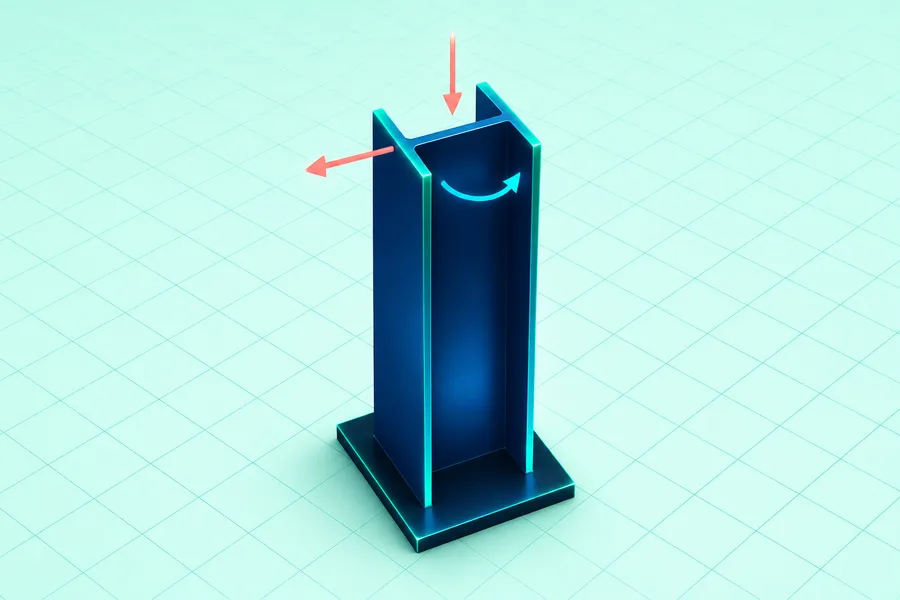
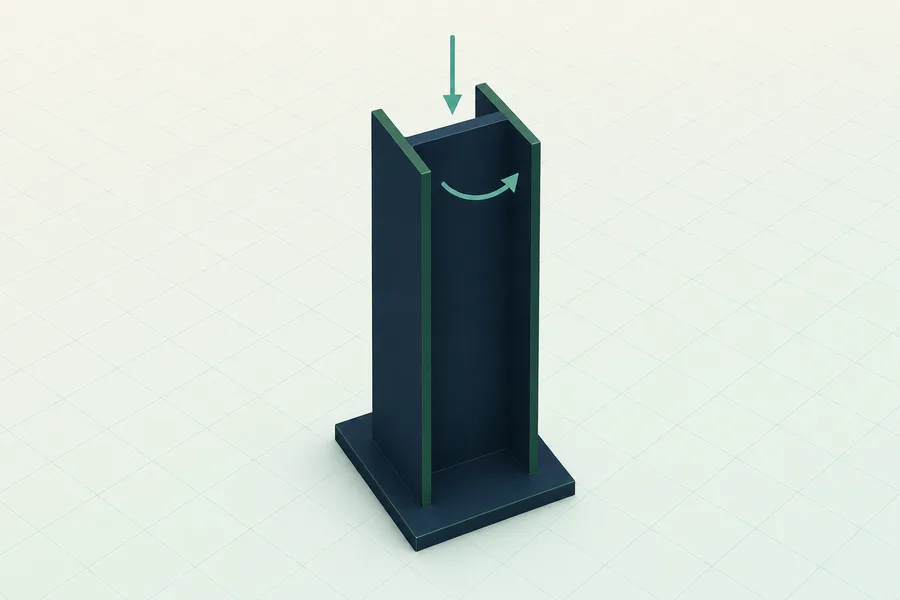
Refine branded homepage artwork and link the CTA to Customer Discovery

diff --git a/app/page.tsx b/app/page.tsx
@@ -6,6 +6,14 @@ import ThreeDModelShowcase from "./components/three-d-model-showcase";
 import { PUBLIC_TOOLS, toolPreviewPath } from "@/lib/tool-discovery";
 import "./homepage.css";
 
+const CUSTOMER_DISCOVERY_URL = "https://discovery.linkoteq.com/";
+
+const roadmapSteps = [
+  { title: "Identify structural elements", detail: "Recognize grids, columns, beams and loads in 2D drawings." },
+  { title: "Assemble a 3D model", detail: "Use the relationships between elements to build a structured model." },
+  { title: "Connect relevant calculations", detail: "Route model objects to the engineering tools that apply to them." },
+];
+
 const workflowHighlights = [
   { title: "2D to 3D", detail: "Drawing-to-model roadmap", icon: Layers3 },
   { title: "Reusable", detail: "Shared calculation engines", icon: Repeat2 },
@@ -13,9 +21,9 @@ const workflowHighlights = [
 ];
 
 const toolArtwork = {
-  snow_load: { src: "/homepage/snow-load.webp", alt: "Stylized snowdrift on two roof levels" },
+  snow_load: { src: "/homepage/snow-load.webp", alt: "Stepped roof cross-section with a snowdrift and a depth arrow" },
   w_section: { src: "/homepage/w-section.webp", alt: "Stylized wide-flange steel member in the model view" },
-  "3d_model": { src: "/homepage/3d-model.webp", alt: "Stylized 3D frame with green beams, blue columns and grid planes" },
+  "3d_model": { src: "/homepage/3d-model.webp", alt: "Close-up of beam-column connections in a structural frame" },
 } as const;
 
 const products = [
@@ -125,31 +133,39 @@ export default function Home() {
       </section>
 
       <section className="homeSection homeRoadmap" id="roadmap" aria-labelledby="roadmap-heading">
-        <div className="homeContainer homeSplit">
-          <div>
+        <div className="homeContainer">
+          <header className="homeIntro">
             <h2 id="roadmap-heading">From drawings to structured 3D models</h2>
-            <p>Our roadmap starts with recognizing grids, columns, beams and loads in 2D drawings, then uses those relationships to build structured models.</p>
-          </div>
+          </header>
           <ol className="homeRoadmapList">
-            <li>Identify structural elements in drawings</li>
-            <li>Assemble a model from their relationships</li>
-            <li>Connect model objects to relevant calculation tools</li>
+            {roadmapSteps.map(({ title, detail }, index) => (
+              <li key={title}>
+                <span className="homeStepNumber" aria-hidden="true">0{index + 1}</span>
+                <h3>{title}</h3>
+                <p>{detail}</p>
+              </li>
+            ))}
           </ol>
         </div>
       </section>
 
-      <section className="homeSection homeWhite">
+      <section className="homeSection homeWhite homeContactSection">
         <div className="homeContainer homeSplit homeContact">
           <div>
             <h2>Help shape the next set of engineering tools</h2>
-            <p>Tell us what you work on and where Linkoteq could help.</p>
+            <p>Tell us about your engineering workflow in the Customer Discovery questionnaire.</p>
           </div>
-          <a className="homeButton homePrimary" href="/contact">Talk to us <ArrowRight size={18} aria-hidden="true" /></a>
+          <a className="homeButton homePrimary" href={CUSTOMER_DISCOVERY_URL}>Talk to us <ArrowRight size={18} aria-hidden="true" /></a>
         </div>
       </section>
       <footer className="homeFooter">
         <div className="homeContainer">
           <Image src="/homepage-linkoteq-logo.svg" alt="Linkoteq Engineering Technology" width={210} height={52} />
+          <nav className="homeFooterLinks" aria-label="Footer">
+            <a href="/contact">Contact</a>
+            <a href="/tools">Tools</a>
+            <a href="#roadmap">Roadmap</a>
+          </nav>
           <span>© 2026 Linkoteq. All rights reserved.</span>
         </div>
       </footer>

diff --git a/app/homepage.css b/app/homepage.css
@@ -8,6 +8,10 @@
   --home-paper: #f7f4ee;
   --home-white: #fff;
   --home-dark: #0f2a26;
+  --home-dark-step: #183832;
+  --home-dark-detail: #dfece6;
+  --home-dark-line: #45675f;
+  --home-dark-accent: #9ce1ce;
   --home-line: #e2ddd3;
   --home-beta-bg: #e3f0ff;
   --home-trial-bg: #e2f4ea;
@@ -31,7 +35,7 @@ linkoteq-header[home-design] {
   --accent: var(--home-action);
   background: var(--home-paper);
   color: var(--home-body);
-  font-size: 1.0625rem;
+  font-size: 1.125rem;
   line-height: 1.55;
 }
 
@@ -117,13 +121,17 @@ linkoteq-header[home-design] {
 
 .homeSplit { display: grid; grid-template-columns: repeat(2, minmax(0, 1fr)); align-items: center; gap: 24px 48px; }
 .homeRoadmap { color: var(--home-white); background: var(--home-dark); }
-.homepage .homeRoadmap h2 { color: inherit; }
-.homeRoadmap a { color: var(--home-white); text-decoration: underline; }
-.homeRoadmapList { margin: 0; padding-inline-start: 1.6em; }
-.homeRoadmapList li + li { margin-top: 12px; }
+.homepage .homeRoadmap :is(h2, h3) { color: var(--home-white); }
+.homeRoadmapList { display: grid; grid-template-columns: repeat(3, minmax(0, 1fr)); gap: 20px; list-style: none; margin: 0; padding: 0; }
+.homeRoadmapList li { display: grid; align-content: start; gap: 12px; padding: clamp(18px, 3vw, 32px); border: 1px solid var(--home-dark-line); border-radius: 14px; background: var(--home-dark-step); }
+.homeRoadmapList p { color: var(--home-dark-detail); }
+.homeStepNumber { color: var(--home-dark-accent); font: 650 clamp(2.5rem, 4vw, 3.5rem)/1 var(--font-heading); letter-spacing: -.04em; font-variant-numeric: tabular-nums; }
+.homeContactSection { padding-block: clamp(32px, 4.5vw, 64px); }
 .homeContact { grid-template-columns: minmax(0, 1fr) auto; }
 .homeFooter { display: block; padding: 24px 0; border-top: 1px solid var(--home-line); color: var(--home-muted); background: var(--home-paper); }
 .homeFooter .homeContainer { display: flex; flex-wrap: wrap; align-items: center; justify-content: space-between; gap: 14px 24px; }
+.homeFooterLinks { display: flex; flex-wrap: wrap; gap: 0 20px; }
+.homeFooterLinks a { display: inline-flex; align-items: center; min-height: 44px; color: var(--home-action); font-weight: 650; text-decoration: underline; text-underline-offset: 3px; }
 .homeFooter img { display: block; width: 210px; max-width: 100%; height: auto; }
 
 @media (max-width: 860px) {
@@ -132,7 +140,7 @@ linkoteq-header[home-design] {
   .homeContact .homeButton { justify-self: start; }
 }
 @media (max-width: 680px) {
-  .homeGrid, .homeMetrics { grid-template-columns: minmax(0, 1fr); }
+  .homeGrid, .homeMetrics, .homeRoadmapList { grid-template-columns: minmax(0, 1fr); }
   .homeHeroLayout { row-gap: 24px; }
   .homeHeroCopy .homeButton, .homeSecondary { width: 100%; }
 }

diff --git a/app/components/three-d-model-showcase.tsx b/app/components/three-d-model-showcase.tsx
@@ -16,8 +16,8 @@ export default function ThreeDModelShowcase() {
     <div className="homeModel" id="3d-model">
       <figure className="homeModelCard">
         <Image
-          src="/homepage/3d-model.webp"
-          alt="Stylized 3D workspace view with green steel beams, blue columns and grid planes"
+          src="/homepage/structural-frame-hero.webp"
+          alt="Stylized 3D workspace view with forest-green beams, navy columns and grid planes"
           width={1200}
           height={800}
           sizes="(max-width: 860px) 92vw, 46vw"
